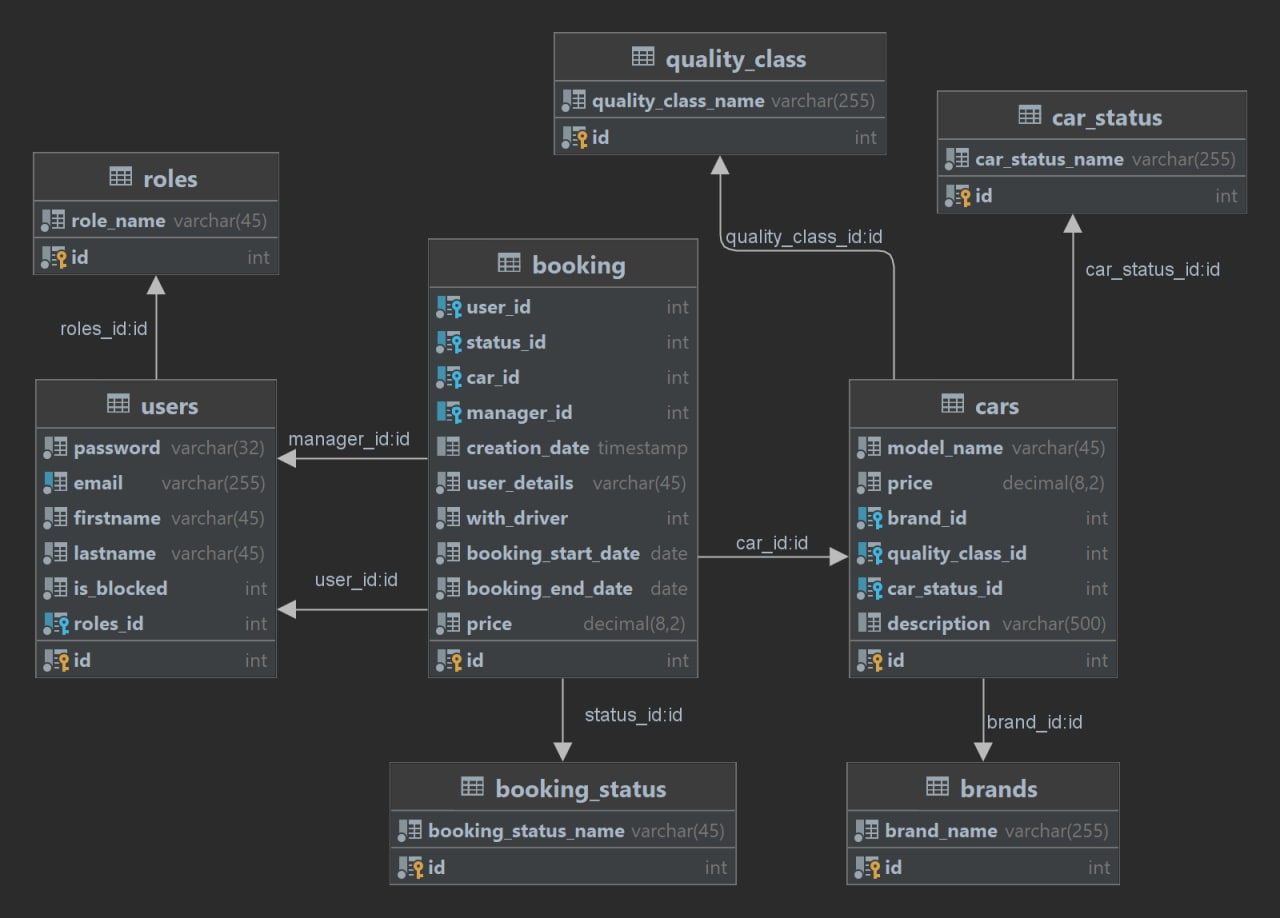
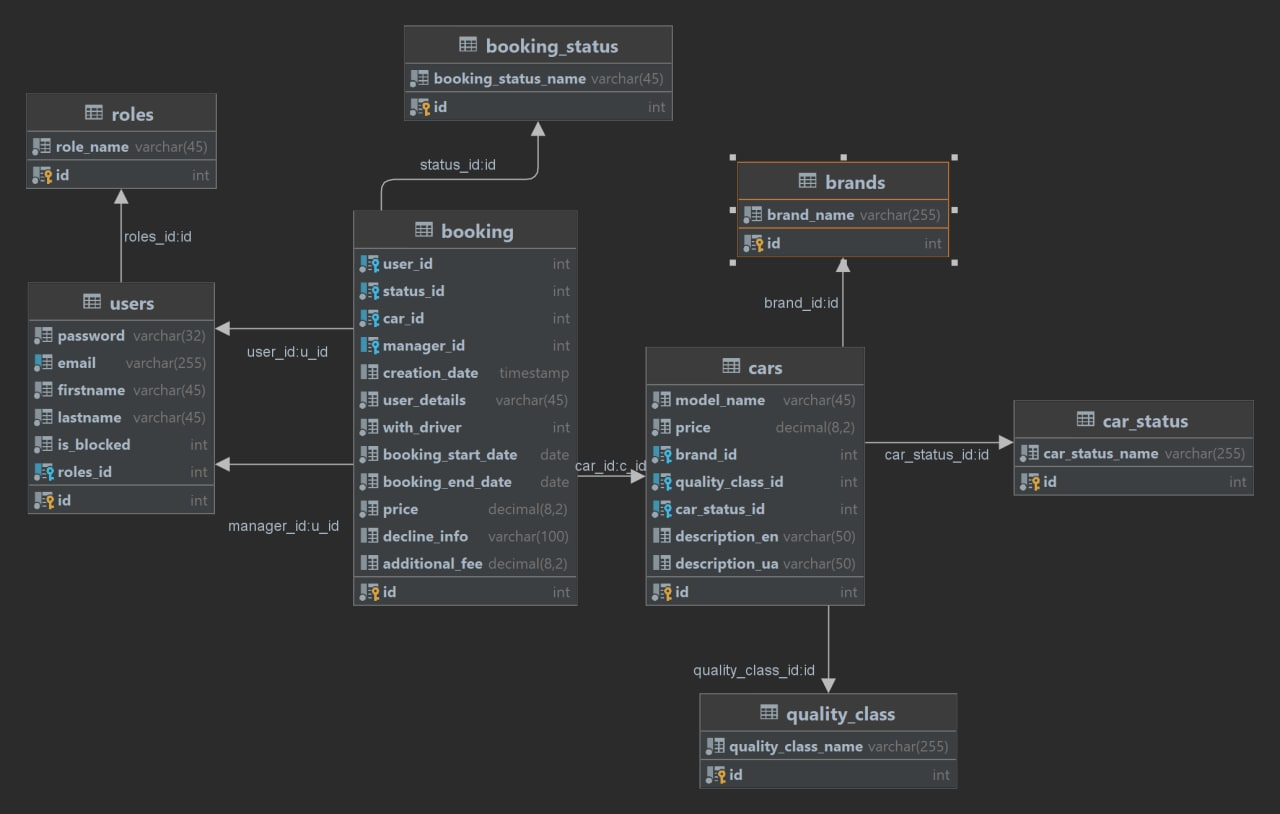
Fixed: language switch, tests and sql diagram

diff --git a/src/main/webapp/static/js/languageButton.js b/src/main/webapp/static/js/languageButton.js
@@ -1,0 +1,20 @@
+const QUESTION_MARK = "?";
+const LANG_PARAMETER = "lang";
+
+const EN_Button = document.getElementById("englishLanguageButton");
+const UA_Button = document.getElementById("ukrainianLanguageButton");
+
+const callback = language => () => {
+    const URI = window.location.pathname;
+    const SEARCH_PARAMS = new URLSearchParams(window.location.search);
+
+    SEARCH_PARAMS.set(LANG_PARAMETER, language);
+
+    const NEW_PARAMETERS = SEARCH_PARAMS.toString();
+
+    window.location.href = URI + QUESTION_MARK + NEW_PARAMETERS;
+}
+
+EN_Button.addEventListener("click", callback("en"));
+
+UA_Button.addEventListener("click", callback("ua"));

diff --git a/src/main/webapp/static/css/shared.css b/src/main/webapp/static/css/shared.css
@@ -6,7 +6,7 @@
     margin: 0;
 }
 
-html{
+html {
     height: 100%;
 }
 
@@ -46,6 +46,10 @@ a {
 
 .button.secondary {
     border-bottom: 1px #444 solid;
+}
+
+.lang-button {
+    cursor: pointer;
 }
 
 
@@ -105,12 +109,6 @@ a {
 .bars::after {
     top: -5px;
 }
-
-/*main h2 {*/
-/*    text-align: center;*/
-/*    color: white;*/
-/*    font-size: 2rem;*/
-/*}*/
 
 .no-results {
     padding: 1rem;

diff --git a/src/test/java/model/service/UserServiceTest.java b/src/test/java/model/service/UserServiceTest.java
@@ -2,6 +2,7 @@ package model.service;
 
 import com.pavlenko.kyrylo.model.dao.UserDao;
 import com.pavlenko.kyrylo.model.dto.UserDto;
+import com.pavlenko.kyrylo.model.entity.Role;
 import com.pavlenko.kyrylo.model.entity.User;
 import com.pavlenko.kyrylo.model.entity.util.PasswordEncoder;
 import com.pavlenko.kyrylo.model.entity.util.Pbkdf2PasswordEncoder;
@@ -26,14 +27,28 @@ class UserServiceTest {
     UserService userService = new UserService(passwordEncoder, userDao);
 
 
+    private static final String FIRSTNAME = "FIRSTNAME";
+    private static final String LASTNAME = "LASTNAME";
     private static final String EMAIL = "random.mail@gmail.com";
     private static final String PASSWORD = "Strongest_PASSWORD_31";
-    private static final String FAKE_PASSWORD = "FAKE_PASSWORD";
 
     private static final User UNBLOCKED_USER = User.builder()
-            .id(1L)
+            .id(null)
+            .firstname(FIRSTNAME)
+            .lastName(LASTNAME)
             .email(EMAIL)
             .password(PASSWORD)
+            .role(new Role(Role.RoleEnum.CUSTOMER))
+            .isBlocked(1)
+            .build();
+
+    private static final User UNBLOCKED_MANAGER = User.builder()
+            .id(null)
+            .firstname(FIRSTNAME)
+            .lastName(LASTNAME)
+            .email(EMAIL)
+            .password(PASSWORD)
+            .role(new Role(Role.RoleEnum.MANAGER))
             .isBlocked(1)
             .build();
 
@@ -46,8 +61,8 @@ class UserServiceTest {
             .build();
 
     private static final UserDto USER_DTO = new UserDto(
-            "FIRSTNAME",
-            "LASTNAME",
+            FIRSTNAME,
+            LASTNAME,
             EMAIL,
             PASSWORD,
             PASSWORD
@@ -85,10 +100,7 @@ class UserServiceTest {
     @Test
     void testRegisterNewAccountShouldWorkWithoutException() throws DataBaseException {
         when(userDao.emailAlreadyExists(EMAIL)).thenReturn(false);
-
         assertDoesNotThrow(() -> userService.registerNewAccount(USER_DTO));
-
-        verify(userDao, times(1)).create(UNBLOCKED_USER);
     }
 
     @Test
@@ -104,10 +116,7 @@ class UserServiceTest {
     @Test
     void testRegisterNewManagerAccountShouldWorkWithoutException() throws DataBaseException {
         when(userDao.emailAlreadyExists(EMAIL)).thenReturn(false);
-
         assertDoesNotThrow(() -> userService.registerNewManagerAccount(USER_DTO));
-
-        verify(userDao, times(1)).create(UNBLOCKED_USER);
     }
 
     @Test

diff --git a/src/test/java/controller/validators/EditCarValidatorTest.java b/src/test/java/controller/validators/EditCarValidatorTest.java
@@ -34,8 +34,13 @@ class EditCarValidatorTest {
     }
 
     @Test
-    void testValidateShouldReturnTrueDescriptionCase() {
+    void testValidateShouldReturnTrueDescriptionEnCase() {
         assertTrue(EditCarValidator.validate(DESCRIPTION_EN, CORRECT_DESCRIPTION_INPUT, REQUEST));
+    }
+
+    @Test
+    void testValidateShouldReturnTrueDescriptionUaCase() {
+        assertTrue(EditCarValidator.validate(DESCRIPTION_UA, CORRECT_DESCRIPTION_INPUT, REQUEST));
     }
 
     @Test
@@ -66,6 +71,15 @@ class EditCarValidatorTest {
     }
 
     @Test
+    void testValidateEditCarWithIncorrectPriceInputEmpty(){
+        boolean isValid = EditCarValidator.validate(PRICE, EMPTY_INPUT, REQUEST);
+        assertFalse(isValid);
+
+        verify(REQUEST, times(1))
+                .setAttribute("status", StatusesContainer.EMPTY_FIELD_EXCEPTION);
+    }
+
+    @Test
     void testValidateEditCarWithIncorrectDescriptionEnInput(){
         boolean isValid = EditCarValidator.validate(DESCRIPTION_EN, INCORRECT_DESCRIPTION_INPUT, REQUEST);
         assertFalse(isValid);
@@ -75,30 +89,12 @@ class EditCarValidatorTest {
     }
 
     @Test
-    void testValidateEditCarWithIncorrectDescriptionEnInputEmpty(){
-        boolean isValid = EditCarValidator.validate(DESCRIPTION_EN, EMPTY_INPUT, REQUEST);
-        assertFalse(isValid);
-
-        verify(REQUEST, times(1))
-                .setAttribute("status", StatusesContainer.EMPTY_FIELD_EXCEPTION);
-    }
-
-    @Test
     void testValidateEditCarWithIncorrectDescriptionUaInput(){
         boolean isValid = EditCarValidator.validate(DESCRIPTION_UA, INCORRECT_DESCRIPTION_INPUT, REQUEST);
         assertFalse(isValid);
 
         verify(REQUEST, times(1))
                 .setAttribute("status", StatusesContainer.DESCRIPTION_SIZE_OUT_OF_BOUNDS_EXCEPTION);
-    }
-
-    @Test
-    void testValidateEditCarWithIncorrectDescriptionUaInputEmpty(){
-        boolean isValid = EditCarValidator.validate(DESCRIPTION_UA, EMPTY_INPUT, REQUEST);
-        assertFalse(isValid);
-
-        verify(REQUEST, times(1))
-                .setAttribute("status", StatusesContainer.EMPTY_FIELD_EXCEPTION);
     }
 
 

diff --git a/src/test/java/model/service/BookingServiceTest.java b/src/test/java/model/service/BookingServiceTest.java
@@ -7,6 +7,7 @@ import com.pavlenko.kyrylo.model.entity.Car;
 import com.pavlenko.kyrylo.model.entity.User;
 import com.pavlenko.kyrylo.model.exeption.DataBaseException;
 import com.pavlenko.kyrylo.model.service.BookingService;
+import org.junit.jupiter.api.Assertions;
 import org.junit.jupiter.api.Test;
 
 import java.math.BigDecimal;
@@ -38,12 +39,25 @@ class BookingServiceTest {
             PRICE
     );
 
-
     @Test
     void testRegisterNewBooking() throws DataBaseException {
         bookingService.registerNewBooking(BOOKING_DTO);
         Booking booking = new Booking(BOOKING_DTO);
         verify(bookingDao, times(1)).registerNewBooking(booking, null, 2L);
+    }
+
+    @Test
+    void testCalculatePriceCorrect() {
+        BigDecimal result = bookingService.calculatePrice(
+                PRICE, LocalDate.parse(START_DATE), LocalDate.parse(END_DATE), WITH_DRIVER);
+        Assertions.assertEquals(new BigDecimal(180), result);
+    }
+
+    @Test
+    void testCalculatePriceIncorrect() {
+        BigDecimal result = bookingService.calculatePrice(
+                PRICE, LocalDate.parse(START_DATE), LocalDate.parse(END_DATE), WITH_DRIVER);
+        Assertions.assertNotEquals(new BigDecimal(200), result);
     }
 
     @Test

diff --git a/src/main/java/com/pavlenko/kyrylo/model/entity/User.java b/src/main/java/com/pavlenko/kyrylo/model/entity/User.java
@@ -101,12 +101,12 @@ public class User implements Serializable {
         if (this == o) return true;
         if (o == null || getClass() != o.getClass()) return false;
         User user = (User) o;
-        return email.equals(user.email);
+        return isBlocked() == user.isBlocked() && Objects.equals(getId(), user.getId()) && Objects.equals(getFirstName(), user.getFirstName()) && Objects.equals(getLastName(), user.getLastName()) && Objects.equals(getEmail(), user.getEmail()) && Objects.equals(getPassword(), user.getPassword()) && Objects.equals(getRole(), user.getRole());
     }
 
     @Override
     public int hashCode() {
-        return Objects.hash(email);
+        return Objects.hash(getId(), getFirstName(), getLastName(), getEmail(), getPassword(), getRole(), isBlocked());
     }
 
     @Override

diff --git a/src/main/java/com/pavlenko/kyrylo/model/service/UserService.java b/src/main/java/com/pavlenko/kyrylo/model/service/UserService.java
@@ -75,8 +75,10 @@ public class UserService {
      */
     public void registerNewAccount(UserDto userDto) throws EmailIsAlreadyRegisteredException, DataBaseException {
         checkEmailIsUnique(userDto.getEmail());
+
         User user = new User(userDto, Role.RoleEnum.CUSTOMER);
         user.setPassword(passwordEncoder.encode(userDto.getPassword()));
+
         userDao.create(user);
         logger.info("New user account {} has been created", user);
     }

diff --git a/src/main/java/com/pavlenko/kyrylo/controller/command/impl/customer/GetRentCarCommand.java b/src/main/java/com/pavlenko/kyrylo/controller/command/impl/customer/GetRentCarCommand.java
@@ -24,7 +24,6 @@ public class GetRentCarCommand implements Command {
 
     @Override
     public String execute(HttpServletRequest request) {
-
         try {
             Car car = carService.findById(Long.valueOf(request.getParameter(ID)));
             request.getSession().setAttribute(CAR, car);
